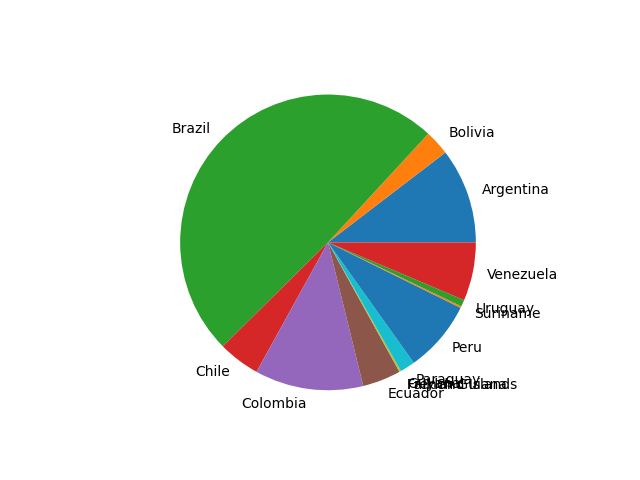
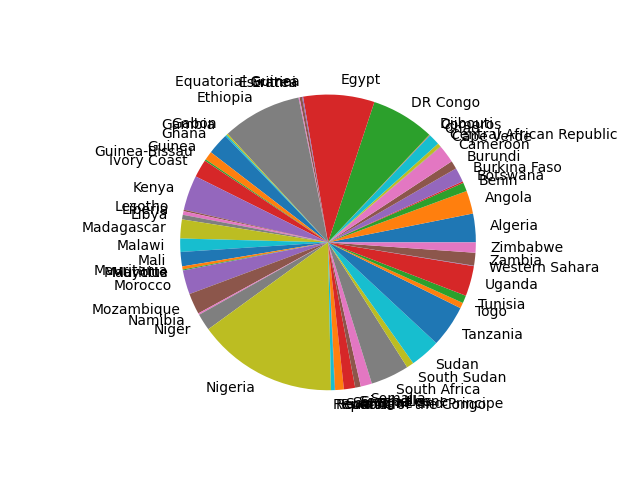
I used Pandas library to read csv file.

Changed region(s): [[0.125, 0.1562, 0.9688, 0.875]]

diff --git a/read_files/main.py b/read_files/main.py
@@ -2,17 +2,27 @@ import read_csv
 import charts
 import utils
 
+import pandas as pd
+
 
 def run():
+    """ 
     data = read_csv.read_csv('./read_files/data.csv')
     data = list(filter(lambda item: item['Continent'] == 'South America', data))
 
     countries = list(map(lambda x: x['Country'], data))
     percentages = list(map(lambda x: x['World Population Percentage'], data))
+    """
+    
+    df = pd.read_csv('./data.csv')
+    df = df[df['Continent'] == 'Africa']
+
+    countries = df['Country'].values
+    percentages = df['World Population Percentage'].values
 
     charts.generate_pie_chart(countries, percentages)
 
-
+    """
     country = input('Type Country => ')
 
     result = utils.population_by_country(data, country)
@@ -20,8 +30,9 @@ def run():
     if len(result) > 0:
         country = result[0]
         labels, values = utils.get_population(country)
-        charts.generate_bar_chart(country['Country'], labels, values)
-
+        charts.generate_bar_chart(country['Country'], labels, values) 
+    """
+    
 
 if __name__ == '__main__':
     run()

diff --git a/read_files/charts.py b/read_files/charts.py
@@ -3,14 +3,14 @@ import matplotlib.pyplot as plt
 def generate_pie_chart(labels, values):
     fig, ax = plt.subplots()
     ax.pie(values, labels = labels)
-    plt.savefig(f'./read_files/imgs/pie.png')
+    plt.savefig(f'./imgs/pie.png')
     plt.close()
 
 
 def generate_bar_chart(name, labels, values):
     fig, ax = plt.subplots()
     ax.bar(labels, values)
-    plt.savefig(f'./read_files/imgs/{name}.png')
+    plt.savefig(f'./imgs/{name}.png')
     plt.close()
 
 if __name__ == '__main__':
